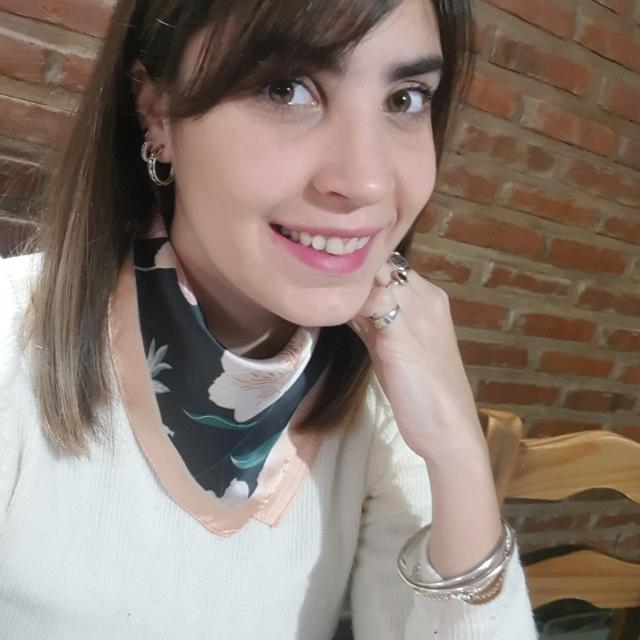
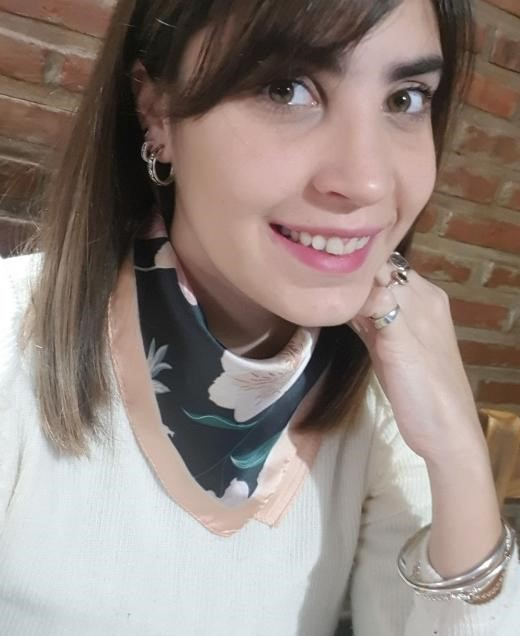
cambios en sobre mi

diff --git a/.history/sobre-mi_20210929154300.php b/.history/sobre-mi_20210929154300.php
@@ -55,7 +55,7 @@
                 </div>
 
                 <div class="col-sm-3 col-6 mt-4 offset-sm-2 div-foto-cv">
-                    <img src="images/perfil2.jpg" alt="Tamara Omelaniuk" title="Tamara Omelaniuk" class="foto-cv shadow">
+                    <img src="images/pp.jpg" alt="Tamara Omelaniuk" title="Tamara Omelaniuk" class="foto-cv shadow">
                 </div>
             </div>
         </div>

diff --git a/.history/sobre-mi_20210929154320.php b/.history/sobre-mi_20210929154320.php
@@ -55,7 +55,7 @@
                 </div>
 
                 <div class="col-sm-3 col-6 mt-4 offset-sm-2 div-foto-cv">
-                    <img src="images/perfil2.jpg" alt="Tamara Omelaniuk" title="Tamara Omelaniuk" class="foto-cv shadow">
+                    <img src="images/pp.jpg" alt="Tamara Omelaniuk" title="Tamara Omelaniuk" class="foto-cv shadow">
                 </div>
             </div>
         </div>
